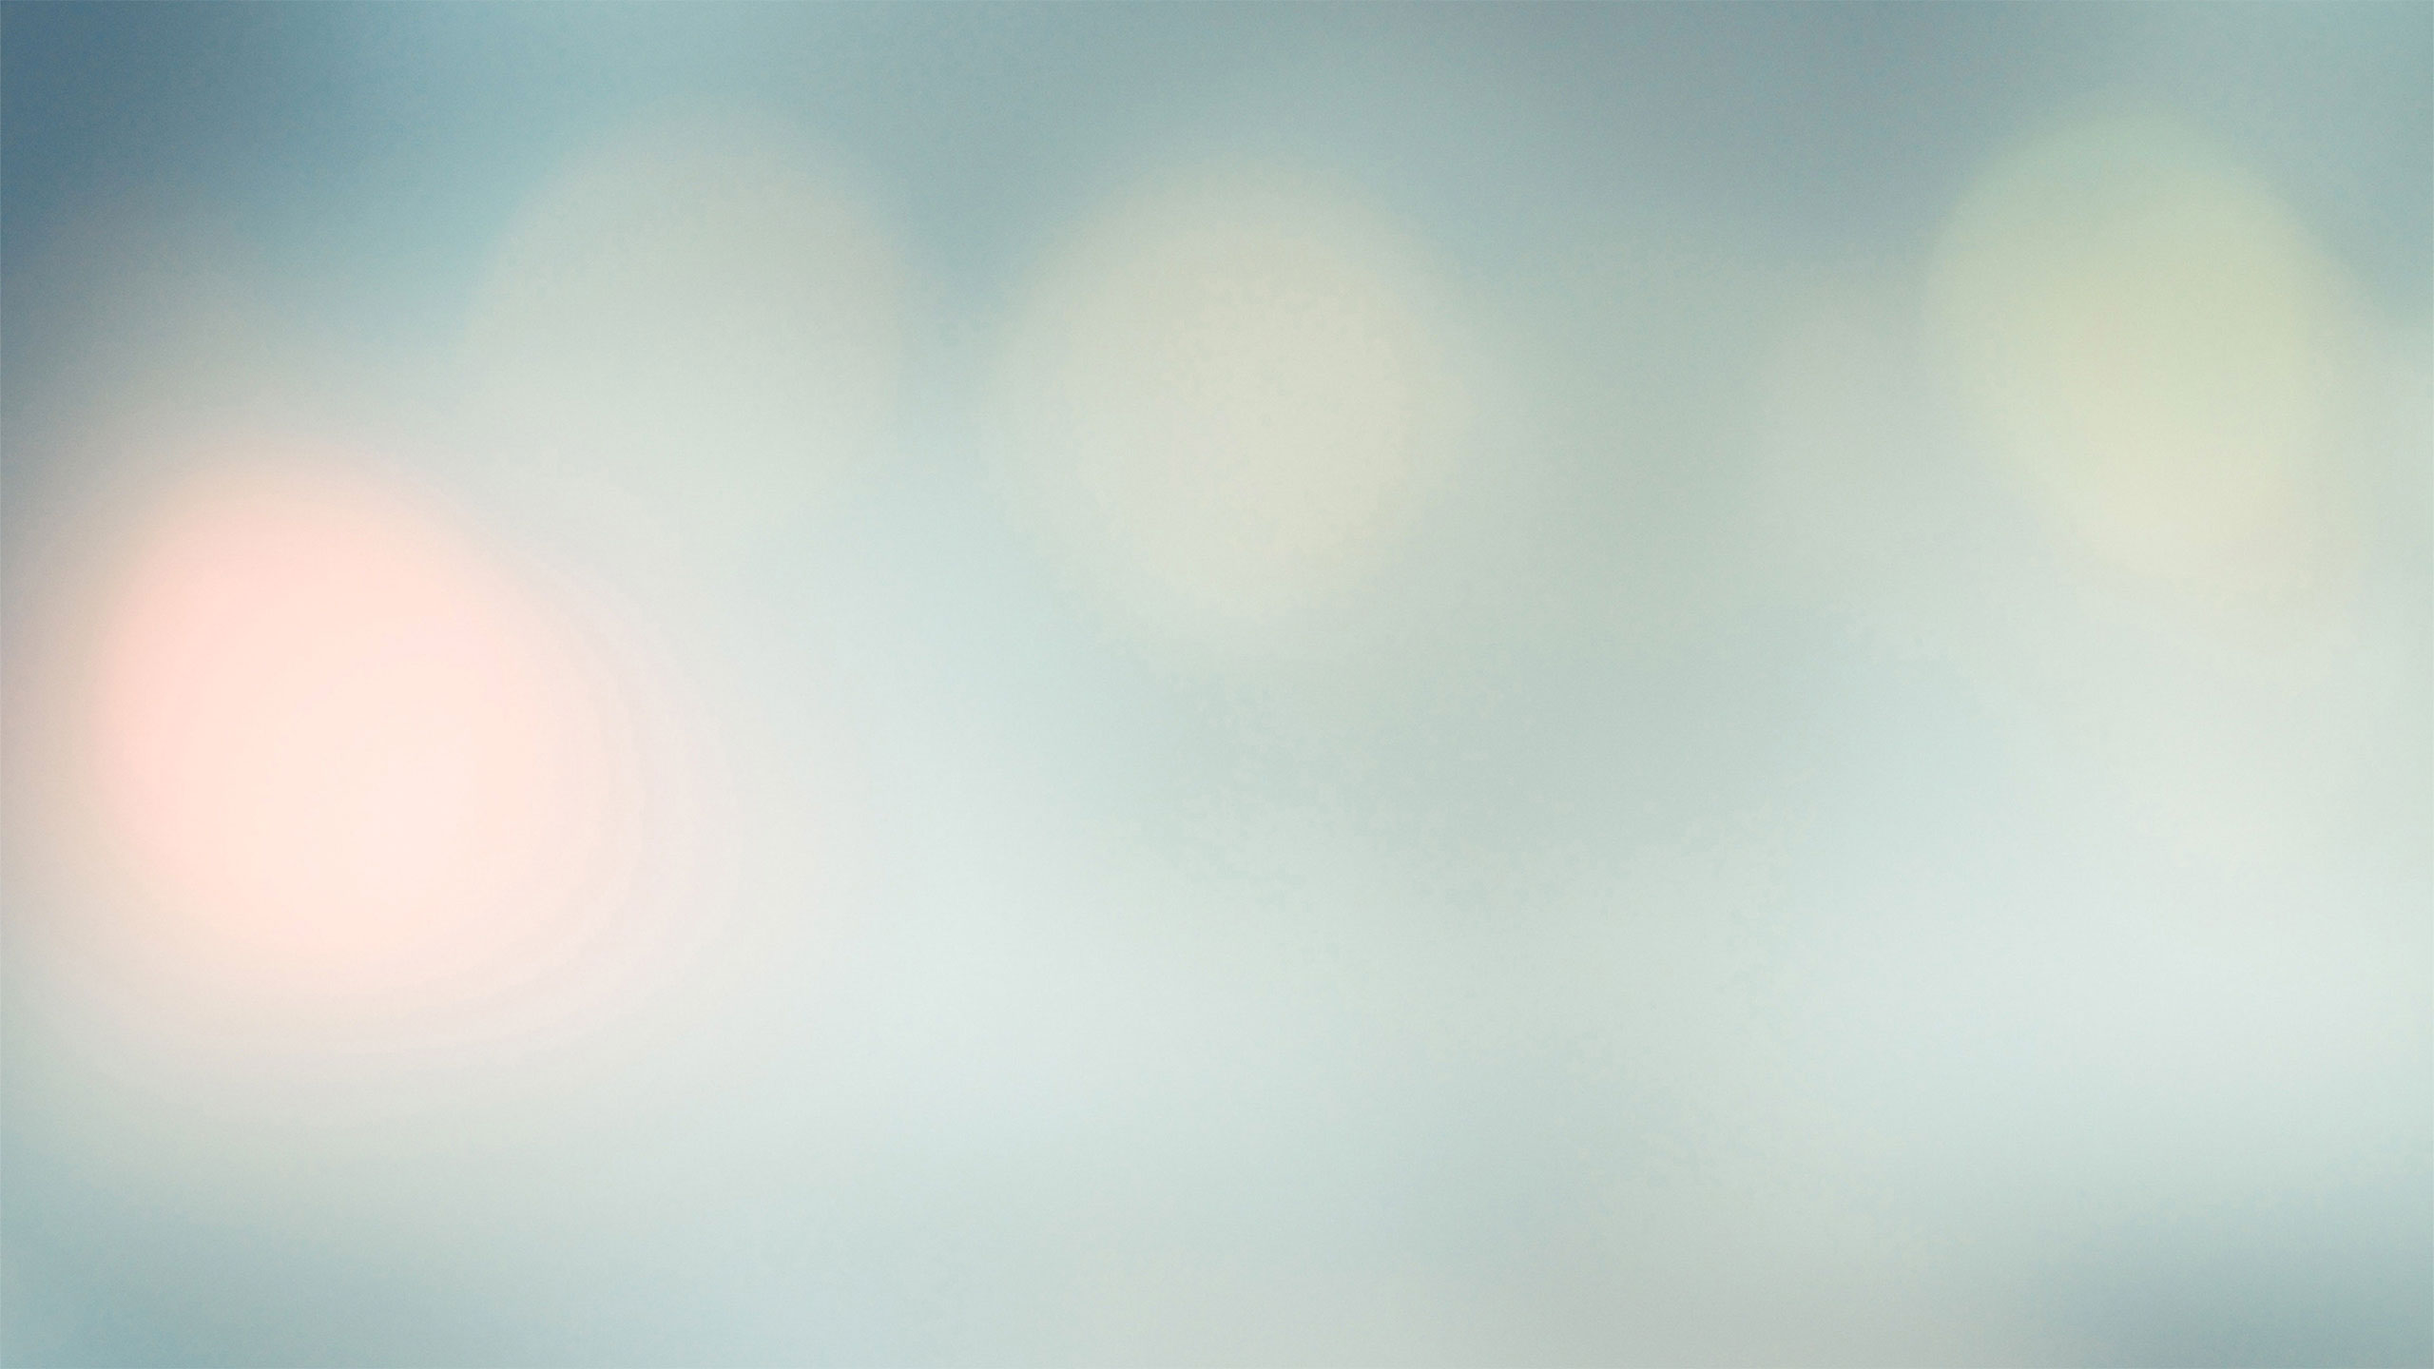
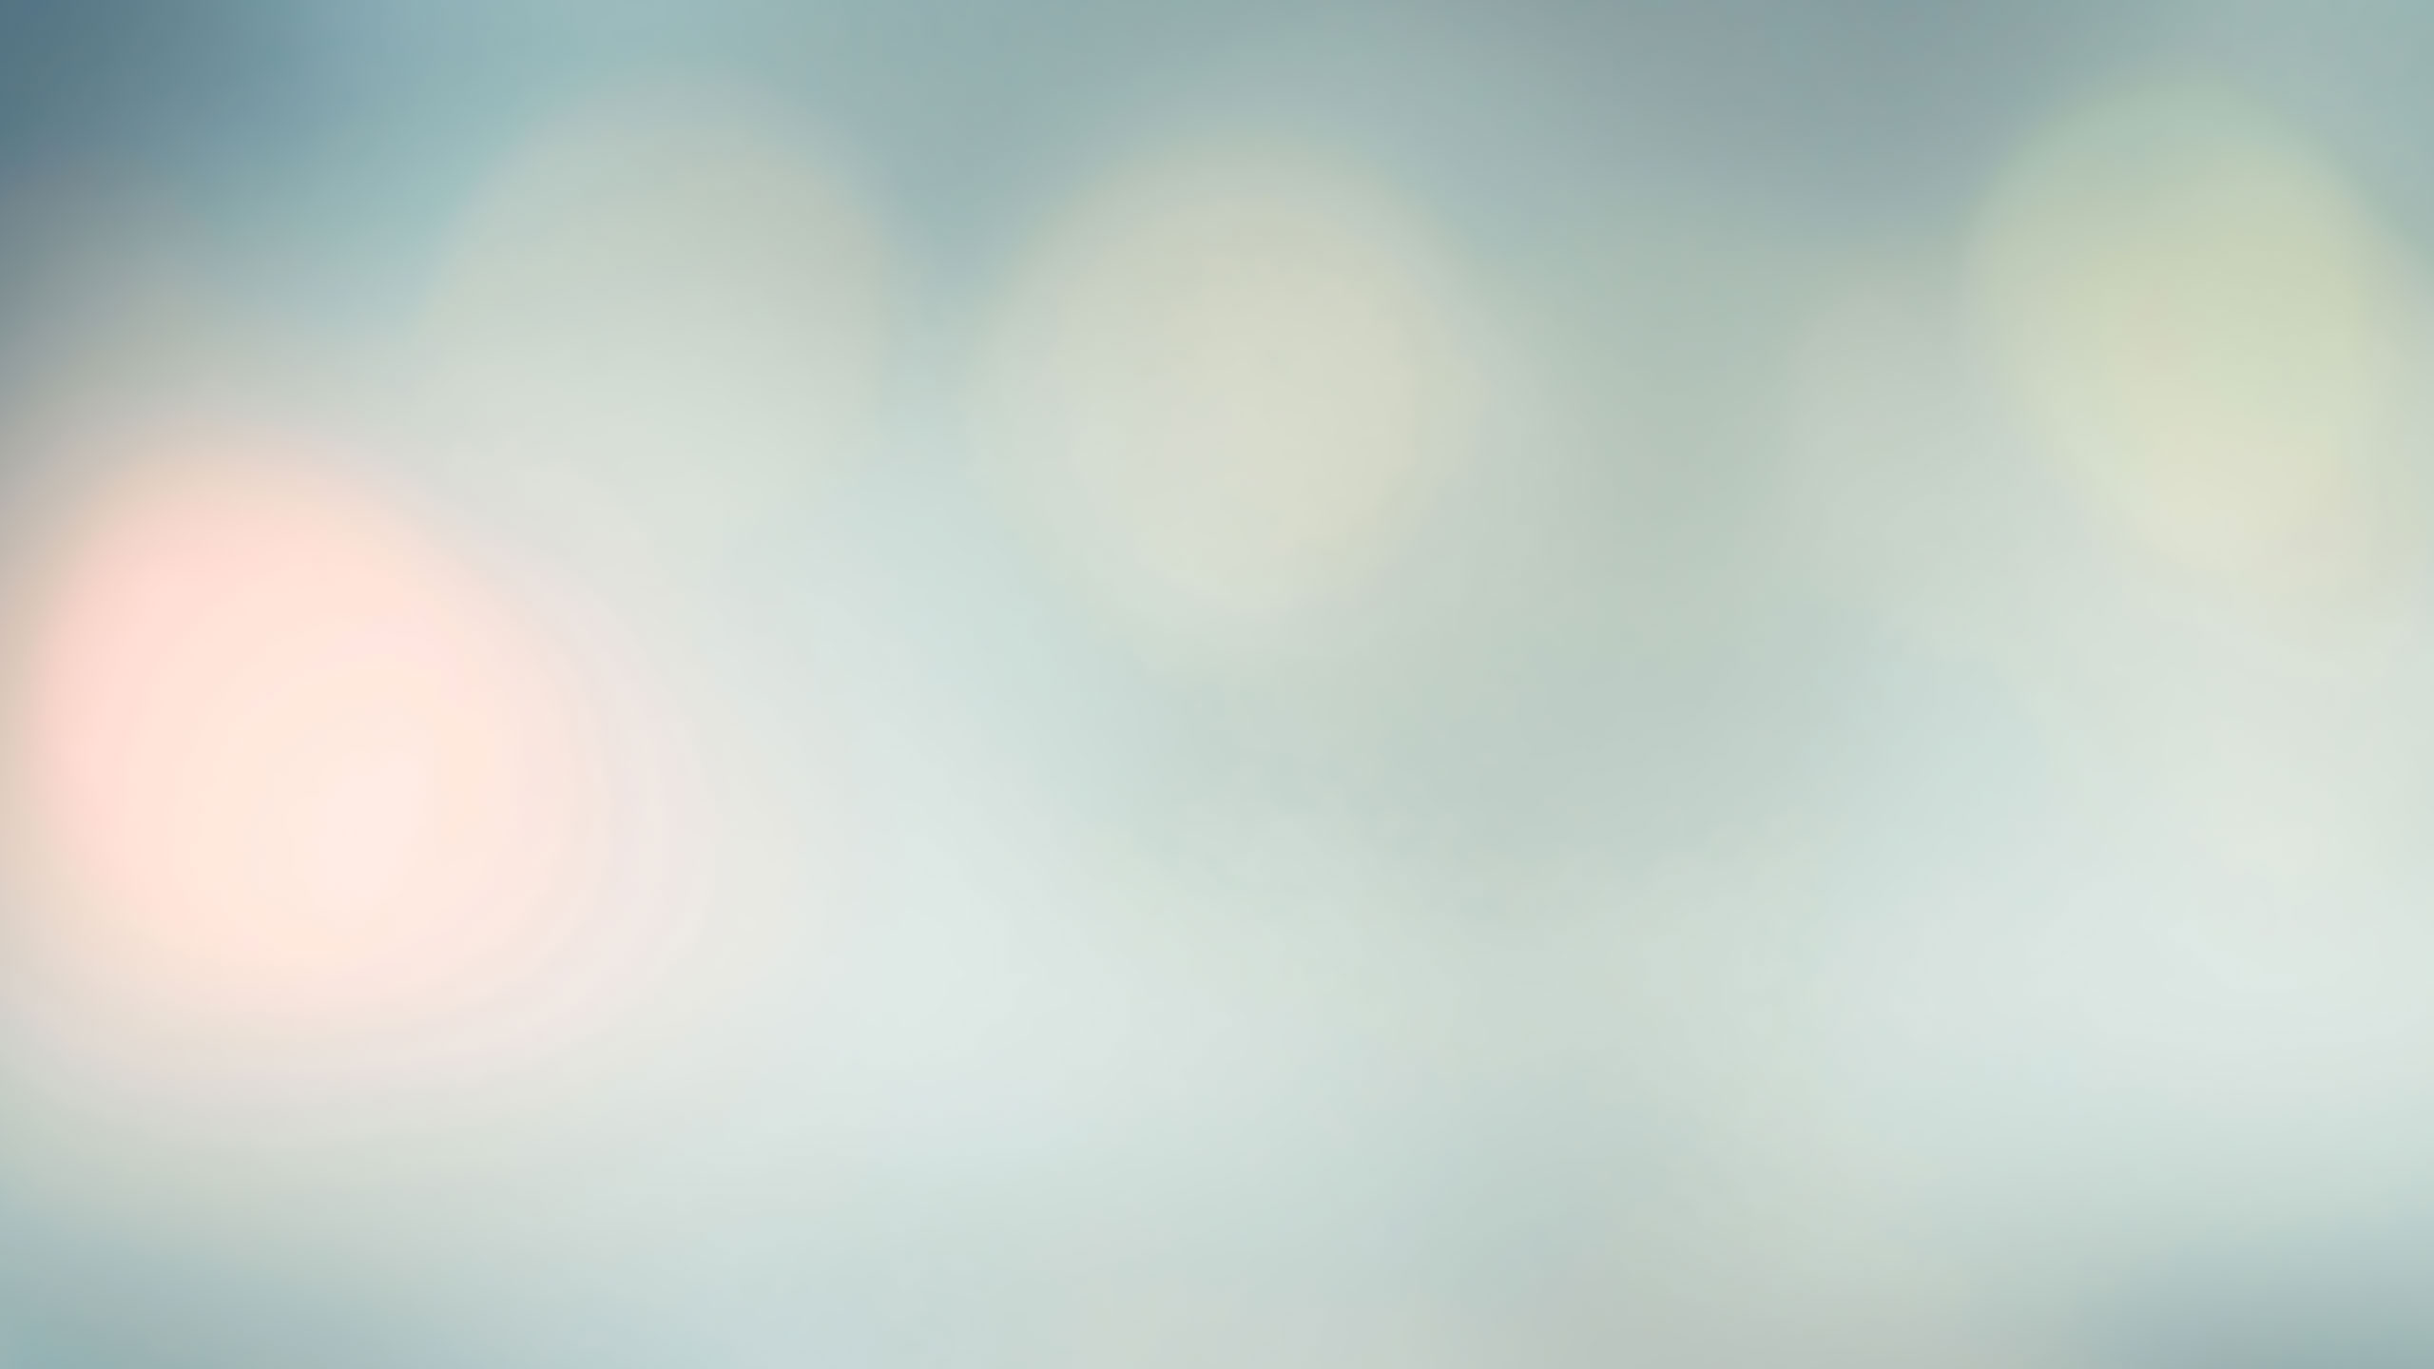
Portfolio: Started working on second project (pred)

Changed region(s): [[0.0, 0.25, 0.0625, 0.5938], [0.9375, 0.125, 0.9688, 0.1875], [0.0, 0.125, 0.0312, 0.1875]]

diff --git a/index.html b/index.html
@@ -76,7 +76,7 @@
 							&nbsp;&nbsp;Usability Testing</div>
 					</section>
 					<section class="hero-image-container" id="crunched-bg">
-						<img src="images/crunched/primary-logo.svg" class="logoImage" alt="crunched logo image">
+						<img src="images/crunched/primary-logo.svg" class="logoImage" id="crunched-logo" alt="crunched logo image">
 					</section>
 					<section class="ux-sample-description">
 						<div class="one-col">
@@ -95,7 +95,7 @@
 							<div>
 								<h3>Enter the grooming process</h3>
 								<p class="ux-tools">Tools used:</p>
-								<img src="images/crunched/jira-logo.svg" id="jira-logo">
+								<img src="images/crunched/jira-logo.svg" class="jira-logo">
 								<p>Sprint preparation started with grooming. A shared understanding of each story
 									was (and always is) critical during the sprint planning process.
 									Here's an overview of a successful sprint:</p>
@@ -108,7 +108,7 @@
 							<div>
 								<h3>Hello wireframes, my old friend</h3>
 								<p class="ux-tools">Tools used:</p>
-								<img src="images/crunched/balsamiq.svg" id="balsamiq-logo">
+								<img src="images/crunched/balsamiq.svg" class="balsamiq-logo">
 								<p>Once a story was groomed, it was off to the races with wireframes.
 									Using principles from <a href="http://atomicdesign.bradfrost.com/table-of-contents/" target="_blank">
 									atomic design</a>, I built up elements organically, with the notion of reuse in mind.
@@ -132,7 +132,7 @@
 							<div>
 								<h3>Going Hi-Fi</h3>
 								<p class="ux-tools">Tools used:</p>
-								<img src="images/crunched/photoshop-cc.svg" id="photoshop-logo">
+								<img src="images/crunched/photoshop-cc.svg" class="photoshop-logo">
 								<p>Sometimes, product owners want to see a close approximation to actual renderings of
 									their application in development. In this case, I break out Photoshop or Sketch.
 									This is less <a href="https://en.wikipedia.org/wiki/Agile_software_development" target="_blank">
@@ -146,7 +146,7 @@
 							<div>
 								<h3>Make it live</h3>
 								<p class="ux-tools">Tools used:</p>
-								<img src="images/crunched/html-css-js.svg" id="html-css-js-logo">
+								<img src="images/crunched/html-css-js.svg" class="html-css-js-logo">
 								<p>Creating mockups is all well and good, but a part of product development is figuring
 								out how all of the parts connect. A part of user experience is the interactions users engage
 								in, so it's important to get the behaviors right.</p>
@@ -159,7 +159,7 @@
 							<div>
 								<h3>Speaking in code</h3>
 								<p class="ux-tools">Tools used:</p>
-								<img src="images/crunched/html-css-js-alt.svg" id="html-css-js-logo-alt">
+								<img src="images/crunched/html-css-js-alt.svg" class="html-css-js-logo-alt">
 								<p>When our design direction is set and development kicks into high gear, I'll often
 									work directly with engineers, revising interfaces and polishing things up so we can
 									make sure that all the small details are accounted for.</p>
@@ -172,7 +172,7 @@
 							<div>
 								<h3>Feedback Loops</h3>
 								<p class="ux-tools">Tools used:</p>
-								<img src="images/crunched/zendesk.svg" id="zendesk-logo">
+								<img src="images/crunched/zendesk.svg" class="zendesk-logo">
 								<p>All of our progress is founded upon rapid and constant feedback. Working with
 									product owners, stakeholders and end users allows me to gather lots of data so that
 									I can work with the engineering team to iterate with an impact.</p>
@@ -198,6 +198,136 @@
 						</a>
 					</section>
 				</div>
+
+				<div class="portCenter">
+					<section>
+						<div class="ux-method-container">Wireframe&nbsp;&nbsp;|&nbsp;&nbsp;Visual Design&nbsp;&nbsp;
+							|&nbsp;&nbsp;Interaction Design&nbsp;&nbsp;|&nbsp;&nbsp;Prototype&nbsp;&nbsp;|
+							&nbsp;&nbsp;Usability Testing</div>
+					</section>
+					<section class="hero-image-container hero-bg" id="predicata-bg">
+						<img src="images/predicata/primary-logo.svg" class="logoImage" id="predicata-logo" alt="predicata logo image">
+					</section>
+					<section class="ux-sample-description">
+						<div class="one-col">
+							<div>
+								<h3>What is Predicata?</h3>
+								<p>Predicata is a hospital/clinic inventory & contract management tool. The beauty of
+									this application is that on top of standard tracking, these institutions will be
+									able to instantly analyze their invoices against contracts.</p>
+								<p>Initial research was provided to us and I've had a good amount of time to conduct my
+									own research efforts with potential users in various roles.</p>
+							</div>
+						</div>
+					</section>
+					<section class="ux-sample-description-alt">
+						<div class="one-col">
+							<div>
+								<h3>Predicata's grooming process</h3>
+								<p class="ux-tools">Tools used:</p>
+								<img src="images/crunched/jira-logo.svg" class="jira-logo">
+								<p>This project involves 
+									Here's an overview of a successful sprint:</p>
+								<img src="images/crunched/crunched-backlog.jpg" class="crunched-image-asset">
+							</div>
+						</div>
+					</section>
+					<section class="ux-sample-description">
+						<div class="one-col">
+							<div>
+								<h3>Hello wireframes, my old friend</h3>
+								<p class="ux-tools">Tools used:</p>
+								<img src="images/crunched/balsamiq.svg" class="balsamiq-logo">
+								<p>Once a story was groomed, it was off to the races with wireframes.
+									Using principles from <a href="http://atomicdesign.bradfrost.com/table-of-contents/" target="_blank">
+										atomic design</a>, I built up elements organically, with the notion of reuse in mind.
+									Sometimes, we would iterate a few times in a matter of days. The important thing was
+									to expand on an idea quickly and analyze until the best structure 'evolved' to fit
+									our needs.</p>
+								<img src="images/crunched/ch-wireframes.png" class="crunched-image-asset">
+								<!--<div class="two-col wireframes">-->
+								<!--<div>-->
+								<!--<img src="images/crunched/CH-200-view-posted-check.png" id="crunched-wireframe-image-1">-->
+								<!--</div>-->
+								<!--<div>-->
+								<!--<img src="images/crunched/CH-225-unprinted-checks-balanace-tooltip.png" id="crunched-wireframe-image-2">-->
+								<!--</div>-->
+								<!--</div>-->
+							</div>
+						</div>
+					</section>
+					<section class="ux-sample-description-alt">
+						<div class="one-col">
+							<div>
+								<h3>Going Hi-Fi</h3>
+								<p class="ux-tools">Tools used:</p>
+								<img src="images/crunched/photoshop-cc.svg" class="photoshop-logo">
+								<p>Sometimes, product owners want to see a close approximation to actual renderings of
+									their application in development. In this case, I break out Photoshop or Sketch.
+									This is less <a href="https://en.wikipedia.org/wiki/Agile_software_development" target="_blank">
+										agile</a>, but can be useful for presentations, decision-making, and keeping product owners happy.</p>
+								<img src="images/crunched/ch-mockup.jpg" class="crunched-image-asset">
+							</div>
+						</div>
+					</section>
+					<section class="ux-sample-description">
+						<div class="one-col">
+							<div>
+								<h3>Make it live</h3>
+								<p class="ux-tools">Tools used:</p>
+								<img src="images/crunched/html-css-js.svg" class="html-css-js-logo">
+								<p>Creating mockups is all well and good, but a part of product development is figuring
+									out how all of the parts connect. A part of user experience is the interactions users engage
+									in, so it's important to get the behaviors right.</p>
+								<img src="images/crunched/ch-interaction.gif" class="crunched-image-asset">
+							</div>
+						</div>
+					</section>
+					<section class="ux-sample-description-alt">
+						<div class="one-col">
+							<div>
+								<h3>Speaking in code</h3>
+								<p class="ux-tools">Tools used:</p>
+								<img src="images/crunched/html-css-js-alt.svg" class="html-css-js-logo-alt">
+								<p>When our design direction is set and development kicks into high gear, I'll often
+									work directly with engineers, revising interfaces and polishing things up so we can
+									make sure that all the small details are accounted for.</p>
+								<img src="images/crunched/ch-prototyping.gif" class="crunched-image-asset">
+							</div>
+						</div>
+					</section>
+					<section class="ux-sample-description">
+						<div class="one-col">
+							<div>
+								<h3>Feedback Loops</h3>
+								<p class="ux-tools">Tools used:</p>
+								<img src="images/crunched/zendesk.svg" class="zendesk-logo">
+								<p>All of our progress is founded upon rapid and constant feedback. Working with
+									product owners, stakeholders and end users allows me to gather lots of data so that
+									I can work with the engineering team to iterate with an impact.</p>
+								<img src="images/crunched/ch-feedback.gif" class="crunched-image-asset">
+							</div>
+						</div>
+					</section>
+					<section class="ux-sample-description-alt conclusion">
+						<div class="one-col">
+							<div>
+								<h3>So, what's the current status?</h3>
+								<p>Crunched is currently open for beta testing. While we're wrapping up our first phase,
+									we're already grooming in preparation for the next phase, as well as incorporating
+									user feedback.</p>
+								<p><a href="https://www.crunched.io" target="_blank">Check out the Crunched
+									website for more info</a></p>
+							</div>
+						</div>
+					</section>
+					<section class="hero-image-container">
+						<a href="https://www.crunched.io" target="_blank">
+							<img src="images/crunched/ch-website-snapshot.png" alt="crunched website snapshot" id="app-snapshot">
+						</a>
+					</section>
+				</div>
+
 				<div class="portCenter"><img id='wd1' src="images/project/wd1.png"></div>
 				<div class="portCenter"><img id='wd2' src="images/project/wd2.png"></div>
 				<div class="portCenter">
@@ -212,9 +342,6 @@
 					<a href="http://www.jodihansonstudio.com" target="_blank"><p><i class="fa fa-link"></i></p></a>
 					<img id='md3' src="images/project/md3.png">
 				</div>
-				<!--<div class="portCenter"><img id='bi1' src="images/project/bi1.png"></div>-->
-				<!--<div class="portCenter"><img id='bi2' src="images/project/bi2.png"></div>-->
-				<!--<div class="portCenter"><img id='bi3' src="images/project/bi3.png"></div>-->
 			</div>
 		</div>
 		<label class="pure-overlay" for="pure-toggle-right" data-overlay="right"></label>
@@ -250,6 +377,13 @@
 
 				<div class="row">
 					<div class="4u">
+						<article class="item">
+							<a class="image full scrolly">
+								<label class="pure-toggle-label" for="pure-toggle-right" data-toggle-label="right">
+									<img class="zoom" src="images/thumbs/crunched-thumb.svg" alt="Crunched project thumbnail">
+								</label>
+							</a>
+						</article>
 						<article class="item">
 							<a class="image full scrolly">
 								<label class="pure-toggle-label" for="pure-toggle-right" data-toggle-label="right">

diff --git a/css/main.css b/css/main.css
@@ -103,11 +103,6 @@
 .ux-sample-description-alt {
   padding: 80px 0; }
 
-.conclusion {
-  padding: 160px 0; }
-  .conclusion h3, .conclusion p {
-    text-align: center; }
-
 .ux-sample-description h3, .ux-sample-description p {
   color: #666666; }
 
@@ -116,18 +111,31 @@
   .ux-sample-description-alt h3, .ux-sample-description-alt p {
     color: #bbbbbb; }
 
+.conclusion {
+  padding: 160px 0; }
+  .conclusion h3, .conclusion p {
+    text-align: center; }
+
 .portCenter .hero-image-container {
   margin: 0;
-  max-width: 100%; }
-
-#crunched-bg {
-  background: url("../images/crunched/crunched-promo-bg.jpg") center no-repeat;
+  max-width: 100%;
   background-size: cover; }
 
+#crunched-bg {
+  background: url("../images/crunched/crunched-promo-bg.jpg") center no-repeat; }
+
+#predicata-bg {
+  background: url("../images/predicata/predicata-promo-bg.jpg") center no-repeat; }
+
 .logoImage {
-  width: 50vw;
   margin: 20vh 0 !important;
   opacity: 0; }
+
+#crunched-logo {
+  width: 50vw; }
+
+#predicata-logo {
+  width: 40vw; }
 
 .crunched-image-asset {
   width: 100%; }
@@ -140,24 +148,24 @@
   font-style: italic;
   font-weight: bold; }
 
-#zendesk-logo,
-#photoshop-logo,
-#balsamiq-logo,
-#html-css-js-logo,
-#html-css-js-logo-alt,
-#jira-logo {
+.zendesk-logo,
+.photoshop-logo,
+.balsamiq-logo,
+.html-css-js-logo,
+.html-css-js-logo-alt,
+.jira-logo {
   margin-bottom: 30px; }
 
-#zendesk-logo,
-#html-css-js-logo,
-#html-css-js-logo-alt {
+.zendesk-logo,
+.html-css-js-logo,
+.html-css-js-logo-alt {
   width: 8em; }
 
-#jira-logo,
-#balsamiq-logo {
+.jira-logo,
+.balsamiq-logo {
   width: 5em; }
 
-#photoshop-logo {
+.photoshop-logo {
   width: 2.5em; }
 
 .pure-toggle-label i {

diff --git a/css/_portfolio.scss b/css/_portfolio.scss
@@ -20,12 +20,6 @@
   padding: 80px 0;
 }
 
-.conclusion {
-  padding: 160px 0;
-
-  h3, p { text-align: center; }
-}
-
 .ux-sample-description {
   h3, p { color: #666666; }
 }
@@ -36,21 +30,28 @@
   h3, p { color: #bbbbbb; }
 }
 
+.conclusion {
+  padding: 160px 0;
+
+  h3, p { text-align: center; }
+}
+
 .portCenter .hero-image-container {
   margin: 0;
   max-width: 100%;
-}
-
-#crunched-bg {
-  background: url("../images/crunched/crunched-promo-bg.jpg") center no-repeat;
   background-size: cover;
 }
 
+#crunched-bg { background: url("../images/crunched/crunched-promo-bg.jpg") center no-repeat; }
+#predicata-bg { background: url("../images/predicata/predicata-promo-bg.jpg") center no-repeat; }
+
 .logoImage {
-  width: 50vw;
   margin: 20vh 0 !important;
   opacity: 0;
 }
+
+#crunched-logo { width: 50vw; }
+#predicata-logo { width: 40vw; }
 
 .crunched-image-asset {
   width: 100%;
@@ -66,21 +67,21 @@
   font-weight: bold;
 }
 
-#zendesk-logo,
-#photoshop-logo,
-#balsamiq-logo,
-#html-css-js-logo,
-#html-css-js-logo-alt,
-#jira-logo { margin-bottom: 30px; }
+.zendesk-logo,
+.photoshop-logo,
+.balsamiq-logo,
+.html-css-js-logo,
+.html-css-js-logo-alt,
+.jira-logo { margin-bottom: 30px; }
 
-#zendesk-logo,
-#html-css-js-logo,
-#html-css-js-logo-alt { width: 8em; }
+.zendesk-logo,
+.html-css-js-logo,
+.html-css-js-logo-alt { width: 8em; }
 
-#jira-logo,
-#balsamiq-logo { width: 5em; }
+.jira-logo,
+.balsamiq-logo { width: 5em; }
 
-#photoshop-logo { width: 2.5em; }
+.photoshop-logo { width: 2.5em; }
 
 // End Tools
 
